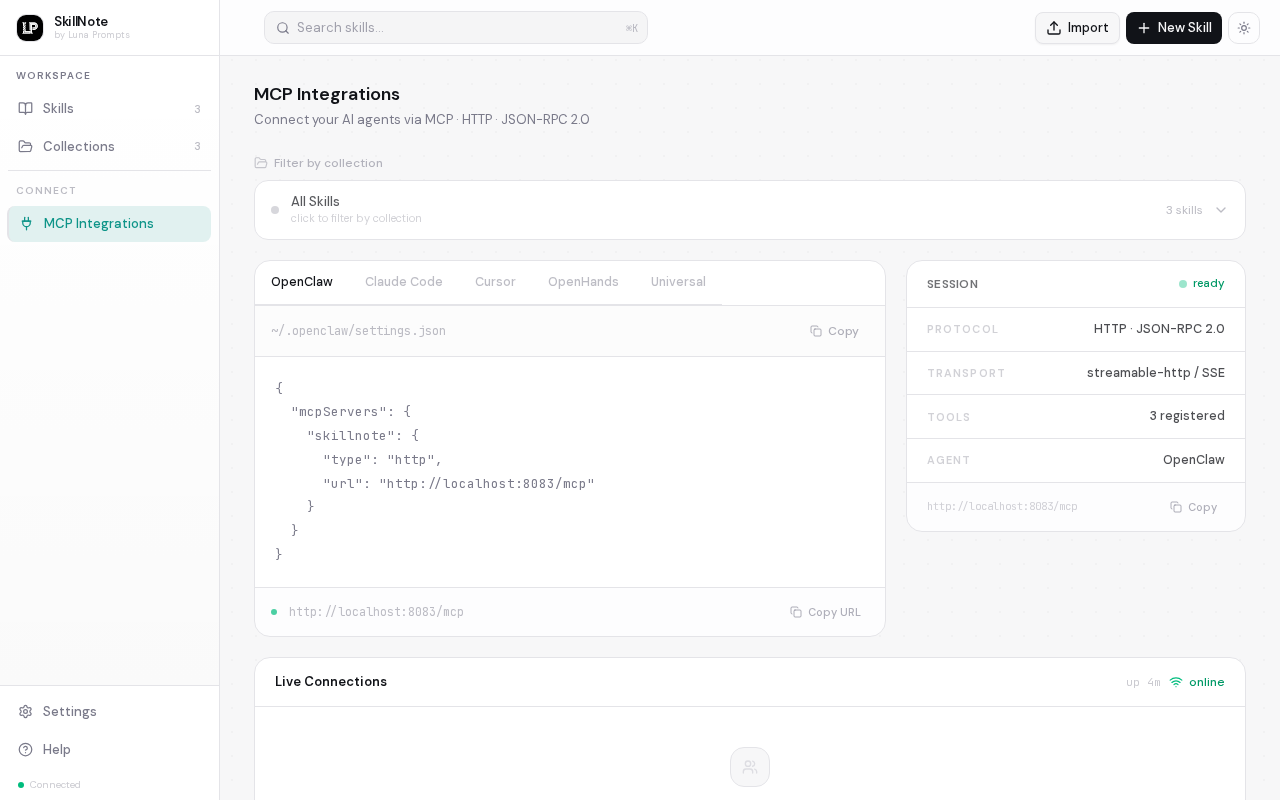
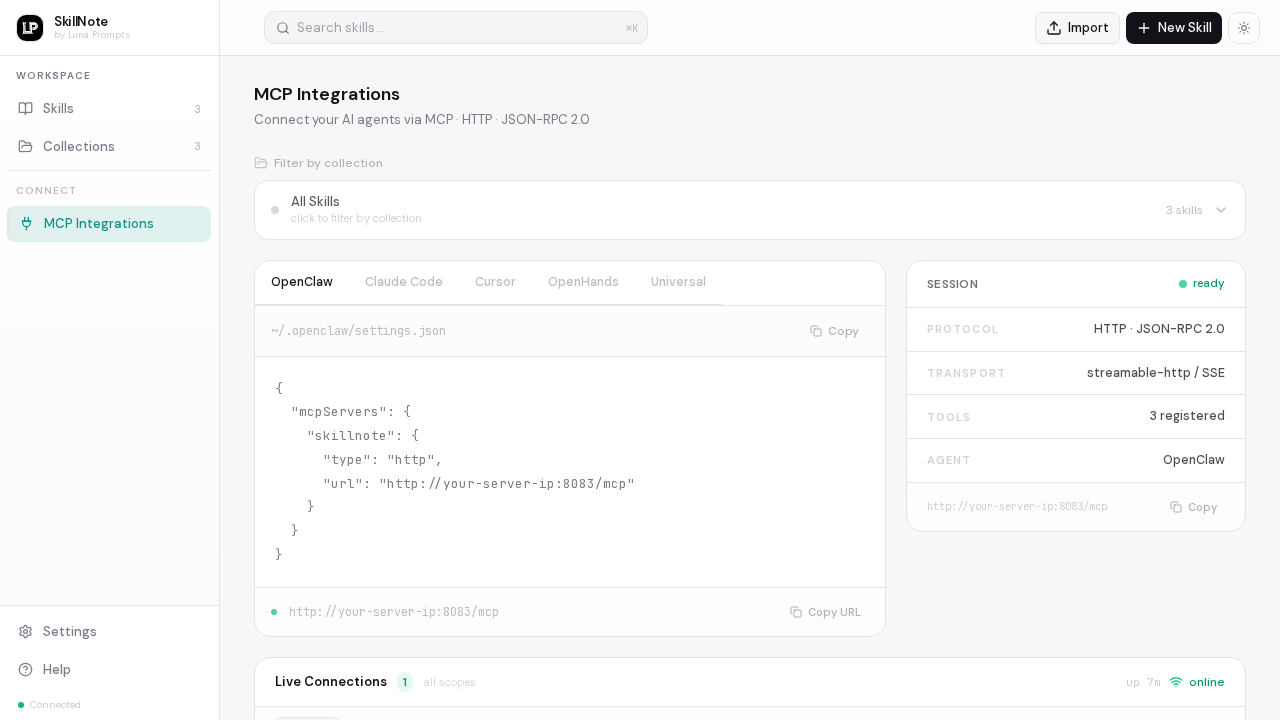
chore: redact private IP in screenshot, add tooltip to Tools field
- Retake mcp-integrations screenshot with private IP replaced by
  'your-server-ip' placeholder — no real machine IP in public assets
- Add Info icon tooltip next to TOOLS in Session panel explaining
  that every skill in the collection is an MCP tool

diff --git a/src/app/(app)/integrations/page.tsx b/src/app/(app)/integrations/page.tsx
@@ -2,7 +2,7 @@
 
 import { useState, useEffect, useMemo, useRef } from 'react'
 import { createPortal } from 'react-dom'
-import { Copy, Check, Search, ChevronDown, X, Wifi, WifiOff, Clock, Users, Radio, Activity, ChevronRight, ArrowUpDown, FolderOpen, Layers } from 'lucide-react'
+import { Copy, Check, Search, ChevronDown, X, Wifi, WifiOff, Clock, Users, Radio, Activity, ChevronRight, ArrowUpDown, FolderOpen, Layers, Info } from 'lucide-react'
 import { TopBar } from '@/components/layout/topbar'
 import { getSkills, syncSkillsFromApi } from '@/lib/skills-store'
 import { getApiBaseUrl } from '@/lib/api/client'
@@ -885,8 +885,13 @@ function SessionStatus({ mcpUrl, agentLabel, skillCount, scopeLabel }: {
       <div className="divide-y divide-border/25">
         {items.filter(i => !('emerald' in i && i.emerald)).map((item, i) => (
           <div key={i} className="flex items-center justify-between px-5 py-3">
-            <span className="text-[11px] font-semibold uppercase tracking-widest text-muted-foreground/35">
+            <span className="flex items-center gap-1 text-[11px] font-semibold uppercase tracking-widest text-muted-foreground/35">
               {item.label}
+              {item.label === 'Tools' && (
+                <span title="Every skill in the selected collection is exposed as an MCP tool. Agents call tools/list to discover them." className="cursor-help">
+                  <Info className="w-3 h-3 text-muted-foreground/30 hover:text-muted-foreground/60 transition-colors" />
+                </span>
+              )}
             </span>
             <span className={cn(
               'text-[12.5px] font-medium text-right',
